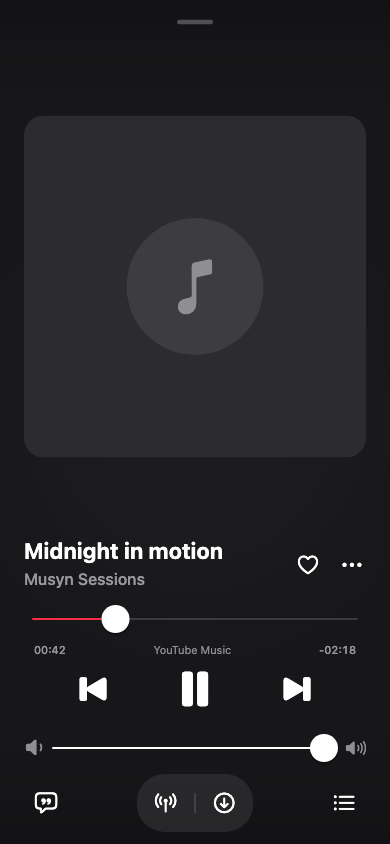
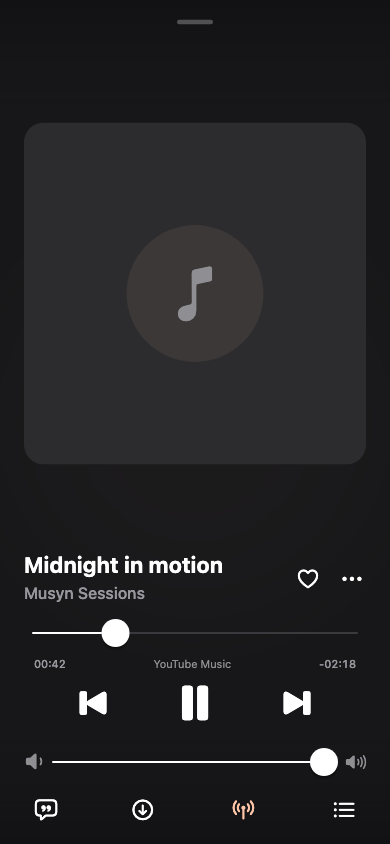
feat: refresh Musyn public product pages

diff --git a/docs/musyn.html b/docs/musyn.html
@@ -3,10 +3,10 @@
 <head>
 <meta charset="utf-8">
 <meta name="viewport" content="width=device-width,initial-scale=1">
-<title>Musyn — Music, in your rhythm · Voryn Labs</title>
+<title>Musyn · Music, in your rhythm · Voryn Labs</title>
 <meta name="description" content="An iPhone music player with YouTube Music, JioSaavn, synced lyrics and offline downloads. Musyn by Voryn Labs.">
 <meta name="theme-color" content="#0E0D0B">
-<meta property="og:title" content="Musyn — Music, in your rhythm">
+<meta property="og:title" content="Musyn · Music, in your rhythm">
 <meta property="og:type" content="website">
 <meta property="og:image" content="https://voryn-labs.github.io/assets/icons/musyn.png">
 <meta property="og:description" content="An iPhone music player with YouTube Music, JioSaavn, synced lyrics and offline downloads. Musyn by Voryn Labs.">
@@ -45,31 +45,34 @@
 <div>
 <span class="eyebrow">For iPhone · Musyn by Voryn Labs</span>
 <h1>Music, in your rhythm.</h1>
-<p class="lede">One place for your next track. YouTube Music and JioSaavn, a queue you control, lyrics that follow along, and downloads for the way home.</p>
+<p class="lede">Your music, beautifully in reach. YouTube Music, optional JioSaavn, synced lyrics and a library that travels with you.</p>
 <div class="product-actions">
 <a class="btn btn-gold" id="download-ipa" href="https://github.com/Voryn-Labs/Musyn/releases">View Musyn releases ↗</a>
 <a href="#install">Installation guide ↓</a>
 </div>
 <p class="release-note">Open source · iOS 15+ · Unsigned IPA · By Voryn Labs</p>
 <p class="download-stat">
-<strong id="ipa-downloads">—</strong> IPA downloads <span id="download-status" role="status">Loading public release statistics</span>
+<strong id="ipa-downloads">·</strong> IPA downloads <span id="download-status" role="status">Loading public release statistics</span>
 </p>
 </div>
-<img class="product-icon" src="assets/icons/musyn.png" width="200" height="200" alt="Musyn folded coral music mark">
+<div class="musyn-hero-art" aria-label="Musyn player and library preview">
+<img class="musyn-hero-home" src="assets/img/musyn-home.png" width="390" height="844" alt="Musyn Home with a fictional music library">
+<img class="musyn-hero-player" src="assets/img/musyn-player.png" width="390" height="844" alt="Musyn player with lyrics and playback controls">
+</div>
 </section>
 <section class="product-section" aria-labelledby="listen">
 <h2 id="listen">A little more music. A little less friction.</h2>
 <dl class="product-facts">
 <div>
 <dt>Choose your source</dt>
-<dd>YouTube Music and JioSaavn AAC, with explicit source selection and honest quality choices. No lossless claims.</dd>
+<dd>YouTube Music works without a key. Add your own JioSaavn media URL key in Settings when you want another source. Clear AAC quality options, with no lossless claims.</dd>
 </div>
 <div>
 <dt>Keep the queue yours</dt>
 <dd>Play next, reorder, shuffle and save your favorites. Open the full player without losing your place.</dd>
 </div>
 <div>
-<dt>Read along</dt>
+<dt>Your YouTube library</dt><dd>Connect YouTube Music to sync liked music and playlists. Your local favorites remain available when a refresh fails.</dd></div><div><dt>Read along</dt>
 <dd>Synced lyrics follow playback, with line seeking where timestamps are available.</dd>
 </div>
 <div>
@@ -77,6 +80,10 @@
 <dd>Track and playlist downloads with progress, cancellation and retry. Search and sort what is saved.</dd>
 </div>
 </dl>
+</section>
+<section class="product-section musyn-motion" aria-labelledby="motion-title">
+<div><h2 id="motion-title">A player with a little more presence.</h2><p class="lede">Native glass on iOS 26. Real video artwork when you add a clip. Your choice, one switch away.</p><p>Turn on Native glass or Animated artwork in Appearance. Attach your own silent square or portrait clip from a song’s menu. The player and supported lock screen can use that clip; tracks without one keep their still cover. Reduce Motion, power settings and iOS remain in control.</p><p class="release-note">Earlier iOS versions keep the standard player. Musyn does not extract Spotify Canvas or bundle an Apple Music catalogue token.</p></div>
+<img src="assets/img/musyn-landscape.png" width="844" height="390" loading="lazy" alt="Musyn landscape player with artwork beside synced lyrics">
 </section>
 <section class="product-section" aria-labelledby="views">
 <h2 id="views">Made to keep the music in view.</h2>
@@ -132,11 +139,11 @@
 </li>
 <li>
 <strong>Open Musyn</strong>
-<p>Browse music, choose your preferred provider and quality, or connect YouTube Music for account features. A login is optional for general browsing.</p>
+<p>YouTube Music is ready without a key or account. Connect YouTube Music for your liked music and playlists. JioSaavn is optional: add a media URL key you are authorized to use in Settings → JioSaavn. Musyn supplies no provider key.</p>
 </li>
 <li>
 <strong>Save a track</strong>
-<p>Use its options menu to choose a download source and bitrate. Downloads shows transfer status and saved music.</p>
+<p>Tap Download on the player using your saved default. Use Download options when you want a different source or quality. Follow progress, retry failures and find saved music in Library.</p>
 </li>
 </ol>
 <p>Manual source URL:</p>
@@ -145,12 +152,12 @@
 </details>
 </section>
 <section class="product-section">
-<h2>Built in the open.</h2>
-<p class="lede">Musyn is maintained by Voryn Labs under GPL-3.0, with credits to the Musify lineage and BitChord design reference. Music providers and artwork owners retain their rights. Availability can vary by source and region.</p>
+<h2>Yours to explore. Open to grow.</h2>
+<p class="lede">Musyn is maintained by Voryn Labs under GPL-3.0, with credits to the Musify lineage and BitChord design reference. YouTube Music and optional JioSaavn are the current sources; more providers can be introduced as the project grows. Music and artwork retain their owners’ rights. Availability varies by source and region.</p>
 <p>
-<a href="https://github.com/Voryn-Labs/Musyn">Explore the source ↗</a> · <a href="https://github.com/Voryn-Labs/Musyn/issues">Report an issue ↗</a> · <a href="musyn-privacy.html">Read the privacy notes</a>
+<a href="https://github.com/Voryn-Labs/Musyn">Explore the source ↗</a> · <a href="https://github.com/Voryn-Labs/Musyn/issues">Report an issue ↗</a> · <a href="musyn-privacy.html">Privacy</a> · <a href="musyn-terms.html">Terms of use</a>
 </p>
-<p class="release-note">The counter sums public GitHub downloads of Musyn.ipa across published releases. It counts file requests, not people or verified installations. If GitHub is unavailable, no guessed count is shown.</p>
+<p class="release-note">The counter sums public GitHub downloads of Musyn.ipa across currently published releases. Removed releases are excluded. It counts file requests, not people or verified installations. If GitHub is unavailable, no guessed count is shown.</p>
 </section>
 </main>
 <footer class="product-footer">
@@ -163,7 +170,7 @@
 </nav>
 </footer>
 </div>
-<script src="assets/js/musyn.js?v=0.1.5">
+<script src="assets/js/musyn.js?v=public-1">
 </script>
 <!-- Cloudflare Web Analytics -->
 <script type="module" src="https://static.cloudflareinsights.com/beacon.min.js" data-cf-beacon='{"token":"221b6d4d6a374533bbdf5fec04bee453"}'>

diff --git a/docs/musyn-terms.html b/docs/musyn-terms.html
@@ -1,0 +1,65 @@
+<!doctype html>
+<html lang="en">
+<head>
+<meta charset="utf-8">
+<meta name="viewport" content="width=device-width,initial-scale=1">
+<title>Musyn terms · Voryn Labs</title>
+<meta name="description" content="Terms of use for Musyn by Voryn Labs: provider rights, installation, availability and open-source licensing.">
+<meta name="theme-color" content="#0E0D0B">
+<meta property="og:title" content="Musyn terms">
+<meta property="og:type" content="website">
+<meta property="og:image" content="https://voryn-labs.github.io/assets/icons/musyn.png">
+<meta property="og:description" content="Terms of use for Musyn by Voryn Labs: provider rights, installation, availability and open-source licensing.">
+<link rel="canonical" href="https://voryn-labs.github.io/musyn-terms.html">
+<link rel="icon" href="assets/icons/musyn.png">
+<link rel="stylesheet" href="https://fonts.googleapis.com/css2?family=Cormorant+Garamond:wght@500;600&family=Outfit:wght@400;500;600;700&display=swap">
+<link rel="stylesheet" href="assets/css/site.css?v=3">
+<link rel="stylesheet" href="assets/css/cloudified.css">
+<link rel="stylesheet" href="assets/css/musyn.css">
+<script>try { var theme=localStorage.getItem("voryn-theme"); if(theme==="light"||theme==="dark") document.documentElement.setAttribute("data-theme",theme); } catch (_) {}</script>
+</head>
+<body class="cloudified-page musyn-page">
+<a class="skip-link" href="#main">Skip to content</a>
+<div class="wrap">
+<header class="product-nav">
+<a class="studio-lockup" href="index.html">
+<img src="assets/voryn-mark.png" width="32" height="32" alt="">Voryn Labs</a>
+<nav aria-label="Product navigation">
+<a href="musyn.html">Back to Musyn</a>
+<button class="theme-toggle" id="theme-toggle" aria-label="Switch color theme" title="Switch color theme">
+<svg class="icon-sun" viewBox="0 0 24 24" width="18" height="18" fill="none" stroke="currentColor" stroke-width="1.7" aria-hidden="true">
+<circle cx="12" cy="12" r="4">
+</circle>
+<path d="M12 2v2m0 16v2M2 12h2m16 0h2M5 5l1.5 1.5m11 11L19 19M5 19l1.5-1.5m11-11L19 5">
+</path>
+</svg>
+<svg class="icon-moon" viewBox="0 0 24 24" width="18" height="18" fill="none" stroke="currentColor" stroke-width="1.7" aria-hidden="true">
+<path d="M20.5 13.2A8.5 8.5 0 0 1 10.8 3.5a8.5 8.5 0 1 0 9.7 9.7Z">
+</path>
+</svg>
+</button>
+</nav>
+</header>
+<main id="main" class="privacy-copy"><h1>Terms of use.</h1><p>Musyn by Voryn Labs. Updated 20 October 2026.</p>
+<h2>Independent software</h2><p>Musyn is an independent open-source player, not affiliated with YouTube, Google, JioSaavn, Apple or Spotify. Provider names identify compatibility.</p>
+<h2>Use with permission</h2><p>Use only content and services you are entitled to access. Downloads grant no ownership or redistribution rights. A user-supplied key does not grant permission or override provider terms. Do not enter another person’s credentials. See <a href="https://corporate.saavn.com/terms/">JioSaavn’s terms</a> and <a href="https://www.youtube.com/static?template=terms">YouTube’s terms</a>.</p>
+<h2>Availability and installation</h2><p>Provider access and features can change. The IPA is unsigned and requires your signing identity or a compatible host. iOS 26 features need a supported device and remain subject to system accessibility and power settings. Keep backups of data you value.</p>
+<h2>Open source</h2><p>Musyn source is licensed under GPL-3.0 with upstream notices. Music, artwork and trademarks retain their owners’ rights. Software is provided without warranties to the extent permitted by applicable law; statutory rights remain unaffected. Review the <a href="https://github.com/Voryn-Labs/Musyn/blob/main/LICENSE">license</a> and <a href="https://github.com/Voryn-Labs/Musyn/blob/main/docs/CREDITS.md">credits</a>.</p>
+<h2>Support and privacy</h2><p>Use Settings → Support to review diagnostic logs or open a GitHub issue. Read the <a href="musyn-privacy.html">privacy policy</a>. Contact <a href="mailto:appsvorynlabs@gmail.com">appsvorynlabs@gmail.com</a>.</p></main><footer class="product-footer">
+<span>© 2026 Voryn Labs</span>
+<nav aria-label="Footer">
+<a href="index.html">Studio</a>
+<a href="musyn.html">Musyn</a>
+<a href="musyn-privacy.html">Privacy</a>
+<a href="https://github.com/Voryn-Labs/Musyn">GitHub</a>
+</nav>
+</footer>
+</div>
+<script src="assets/js/musyn.js">
+</script>
+<!-- Cloudflare Web Analytics -->
+<script type="module" src="https://static.cloudflareinsights.com/beacon.min.js" data-cf-beacon='{"token":"221b6d4d6a374533bbdf5fec04bee453"}'>
+</script>
+<!-- End Cloudflare Web Analytics -->
+</body>
+</html>

diff --git a/docs/musyn-privacy.html b/docs/musyn-privacy.html
@@ -41,17 +41,17 @@
 </nav>
 </header>
 <main id="main" class="privacy-copy">
-<span class="eyebrow">Musyn · preview 0.1</span>
+<span class="eyebrow">Musyn by Voryn Labs</span>
 <h1>Your music and your privacy.</h1>
-<p>Updated 19 October 2026. This describes Musyn, the iPhone music player by Voryn Labs.</p>
+<p>Updated 20 October 2026. This describes Musyn, the iPhone music player by Voryn Labs.</p>
 <h2>Requests to music services</h2>
-<p>Search, catalogue browsing, playback, artwork and downloads contact YouTube/YouTube Music and JioSaavn. Lyrics may be requested from LRCLIB. Those services receive requests needed for the feature, including your IP address and search or track information, and apply their own policies. Availability is not guaranteed.</p>
+<p>Search, catalogue browsing, playback, artwork and downloads contact YouTube/YouTube Music and, only when configured and enabled, JioSaavn. Lyrics may be requested from LRCLIB. Those services receive requests needed for the feature, including your IP address and search or track information, and apply their own policies. Availability is not guaranteed.</p>
 <h2>Optional account connection</h2>
 <p>Connecting YouTube Music opens its sign-in flow. Session cookies are stored in this installation’s local app storage and used for account features such as playlists and likes. They are sensitive credentials; do not include them in bug reports. Disconnect the account in Settings when you no longer want it linked.</p>
 <h2>Saved on your device</h2>
 <p>Favorites, history, preferences, playlists, cached metadata and downloaded audio are stored locally. Removing the app or its container removes that local data under the installer’s and iOS’s storage rules. A LiveContainer host controls its guest environment; use a host you trust.</p>
-<h2>Diagnostics</h2>
-<p>The diagnostics screen provides app and playback logs for troubleshooting. Sharing is your choice. Review logs before copying them into a public issue, and remove private URLs, account details or credentials.</p>
+<h2>Provider keys and artwork</h2><p>Musyn contains no bundled JioSaavn media URL key. A key you enter is stored in iOS Keychain on this device and excluded from diagnostics. Keychain material may survive reinstall; remove it in Settings before uninstalling if you want it deleted. Optional video artwork is imported from a file you choose and stored locally. No Spotify Canvas extraction or Apple Music web token is bundled.</p><h2>Diagnostics</h2>
+<p>Diagnostics never upload automatically. The Support screen shows a redacted preview, removing configured keys, credentials, URLs, emails and local paths. Song names and timings can remain. If you confirm an upload, that preview is sent to dpaste.com as a public link with a requested seven-day expiry. Anyone with the link can read it. Creating an issue opens a public GitHub draft; you decide whether to submit it. Review all content before sharing.</p>
 <h2>App analytics and website statistics</h2>
 <p>Musyn has no advertising or analytics SDK added by Voryn Labs. This website uses the studio’s existing Cloudflare Web Analytics integration for aggregate website statistics. The product page also requests public release data from GitHub to show IPA download totals; this is not an in-app installation tracker. GitHub Pages, GitHub, Cloudflare and Google Fonts receive their own website requests. See the <a href="privacy.html">studio website privacy policy</a>.</p>
 <h2>Contact</h2>

diff --git a/docs/assets/css/musyn.css b/docs/assets/css/musyn.css
@@ -13,3 +13,33 @@
  .musyn-page .product-nav nav { margin-left:auto;flex-wrap:wrap;gap:.75rem; }
  .musyn-page .studio-lockup { flex-shrink:0; }
 }
+
+/* Voryn consumer launch: existing typography, coral product accent, real UI renders. */
+.musyn-page { --gold:#ffc5a7; }
+html[data-theme="light"] .musyn-page { --gold:#a94130; }
+.musyn-page .product-hero { grid-template-columns:minmax(0,1fr) minmax(300px,.82fr);gap:3rem;padding-block:3.5rem; }
+.musyn-page .product-hero h1 { font-size:clamp(2.8rem,5.3vw,4.6rem);max-width:12ch; }
+.musyn-page .product-actions .btn { white-space:nowrap; }
+.musyn-hero-art { height:480px;position:relative;isolation:isolate; }
+.musyn-hero-art img { position:absolute;height:440px;width:auto;border-radius:26px;border:1px solid var(--line);box-shadow:0 20px 50px #0003; }
+.musyn-hero-home { left:0;top:10px;transform:rotate(-7deg); }
+.musyn-hero-player { right:0;top:35px;transform:rotate(6deg); }
+.musyn-motion { display:grid;grid-template-columns:1fr;gap:2rem; }
+.musyn-motion .lede { max-width:36ch; }
+.musyn-motion img { width:100%;height:auto;border-radius:20px;border:1px solid var(--line); }
+.musyn-page .product-section p { max-width:66ch;line-height:1.7; }
+@media (prefers-reduced-motion:no-preference) {
+ .musyn-hero-art { animation:musyn-arrive .65s cubic-bezier(.23,1,.32,1) both; }
+ @keyframes musyn-arrive { from { opacity:0;transform:translateY(16px); } to { opacity:1;transform:none; } }
+}
+@media(max-width:800px) {
+ .musyn-page .product-hero { grid-template-columns:1fr;padding-block:2.5rem;gap:1rem; }
+ .musyn-hero-art { width:min(380px,100%);height:420px;justify-self:center; }
+ .musyn-hero-art img { height:380px; }
+ .musyn-page .product-hero h1 { max-width:12ch; }
+}
+@media(max-width:400px) { .musyn-page .product-actions .btn { font-size:.9rem;padding-inline:1rem; } .musyn-hero-art img {height:340px;} .musyn-hero-art{height:380px;} }
+
+.musyn-page .btn-gold { background:var(--gold);color:#17120f;box-shadow:none;border-color:var(--gold); }
+
+html[data-theme="light"] .musyn-page .btn-gold { color:#fff; }

diff --git a/docs/index.html b/docs/index.html
@@ -102,7 +102,7 @@
 
     <section id="iphone-apps" class="wrap" aria-label="Apps for iPhone"><div class="cloudified-feature"><img src="assets/icons/cloudified.png" alt="Cloudified icon" width="112" height="112"><div><span class="eyebrow">For iPhone · Cloudified 0.3</span><h2>Cloudified</h2><p>Original photo and video backup to Google Photos and Telegram. Independent queues, clear progress, a little less screen.</p><a href="cloudified.html">Meet Cloudified →</a></div></div></section>
 
-    <section class="wrap" aria-label="Musyn for iPhone"><div class="cloudified-feature"><img src="assets/icons/musyn.png" alt="Musyn icon" width="112" height="112"><div><span class="eyebrow">For iPhone · Musyn by Voryn Labs</span><h2>Musyn</h2><p>Music, in your rhythm. YouTube Music and JioSaavn, synced lyrics, a queue you control, and downloads for the way home.</p><a href="musyn.html">Meet Musyn →</a></div></div></section>
+    <section class="wrap" aria-label="Musyn for iPhone"><div class="cloudified-feature"><img src="assets/icons/musyn.png" alt="Musyn icon" width="112" height="112"><div><span class="eyebrow">For iPhone · Musyn by Voryn Labs</span><h2>Musyn</h2><p>Music, in your rhythm. YouTube Music integration, optional JioSaavn, synced lyrics and downloads. An expressive player with optional native iOS 26 glass and real video artwork.</p><a href="musyn.html">Meet Musyn →</a></div></div></section>
 
     <section class="wrap ios-source" aria-labelledby="ios-source-title">
       <span class="eyebrow">Voryn Labs for iPhone</span>
